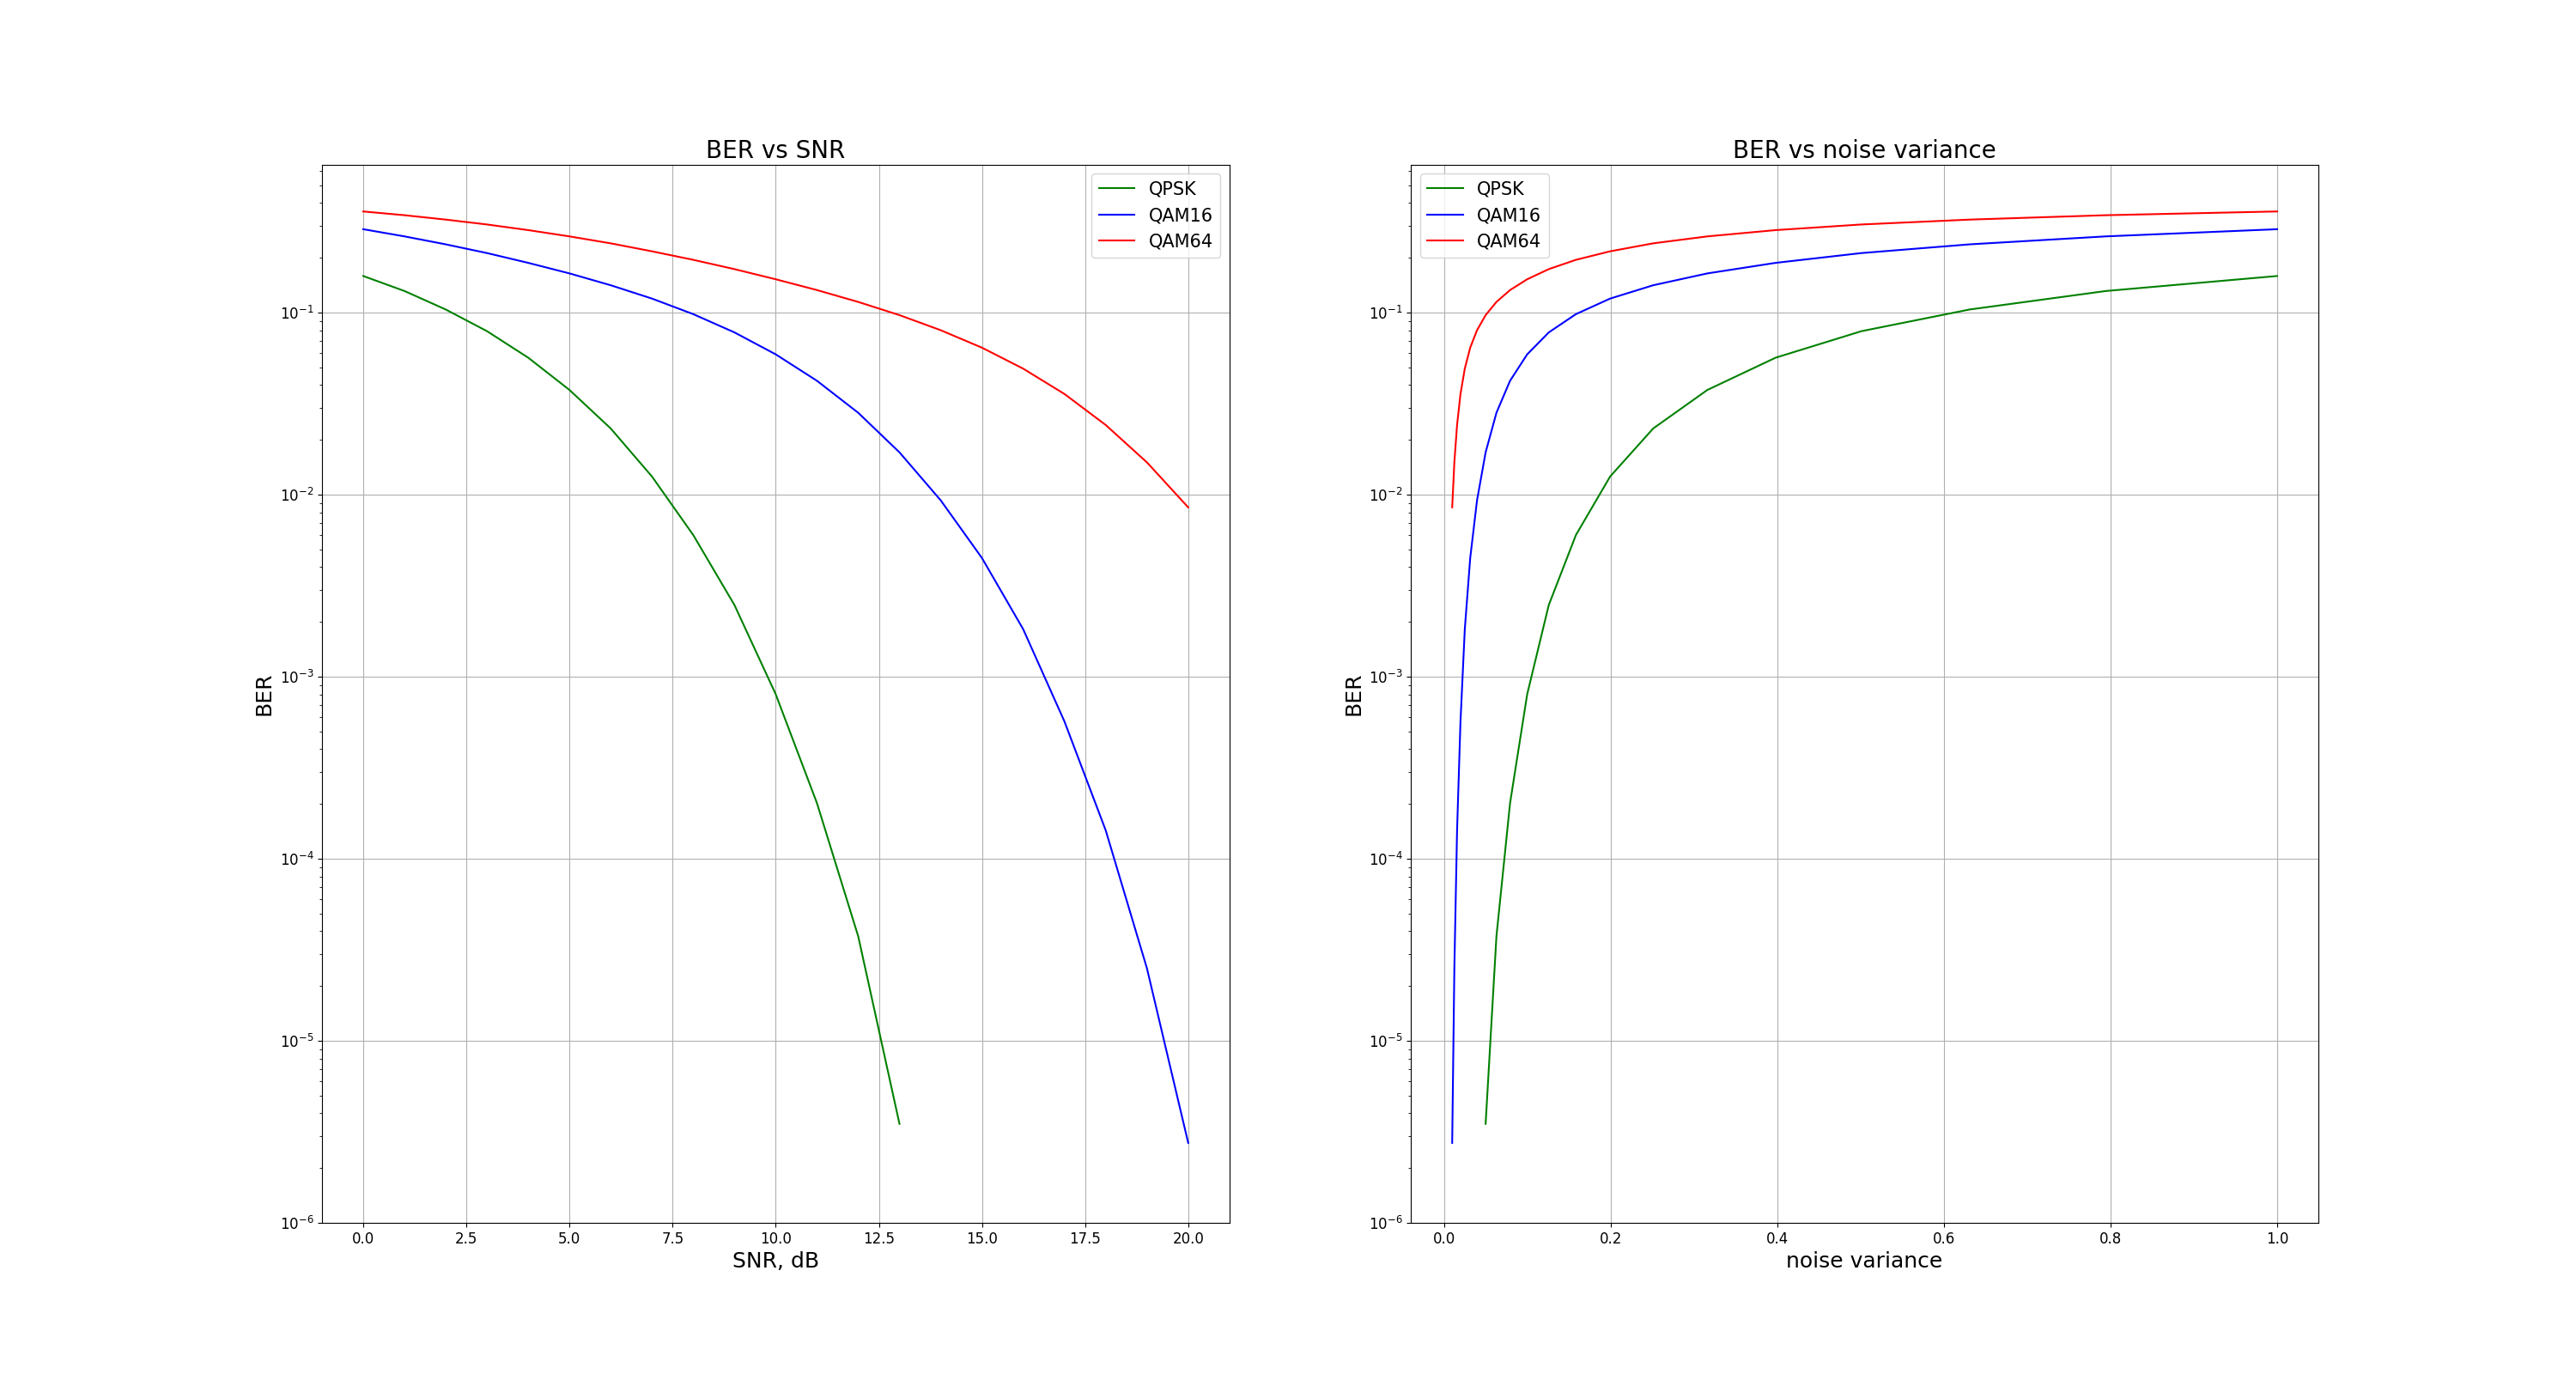
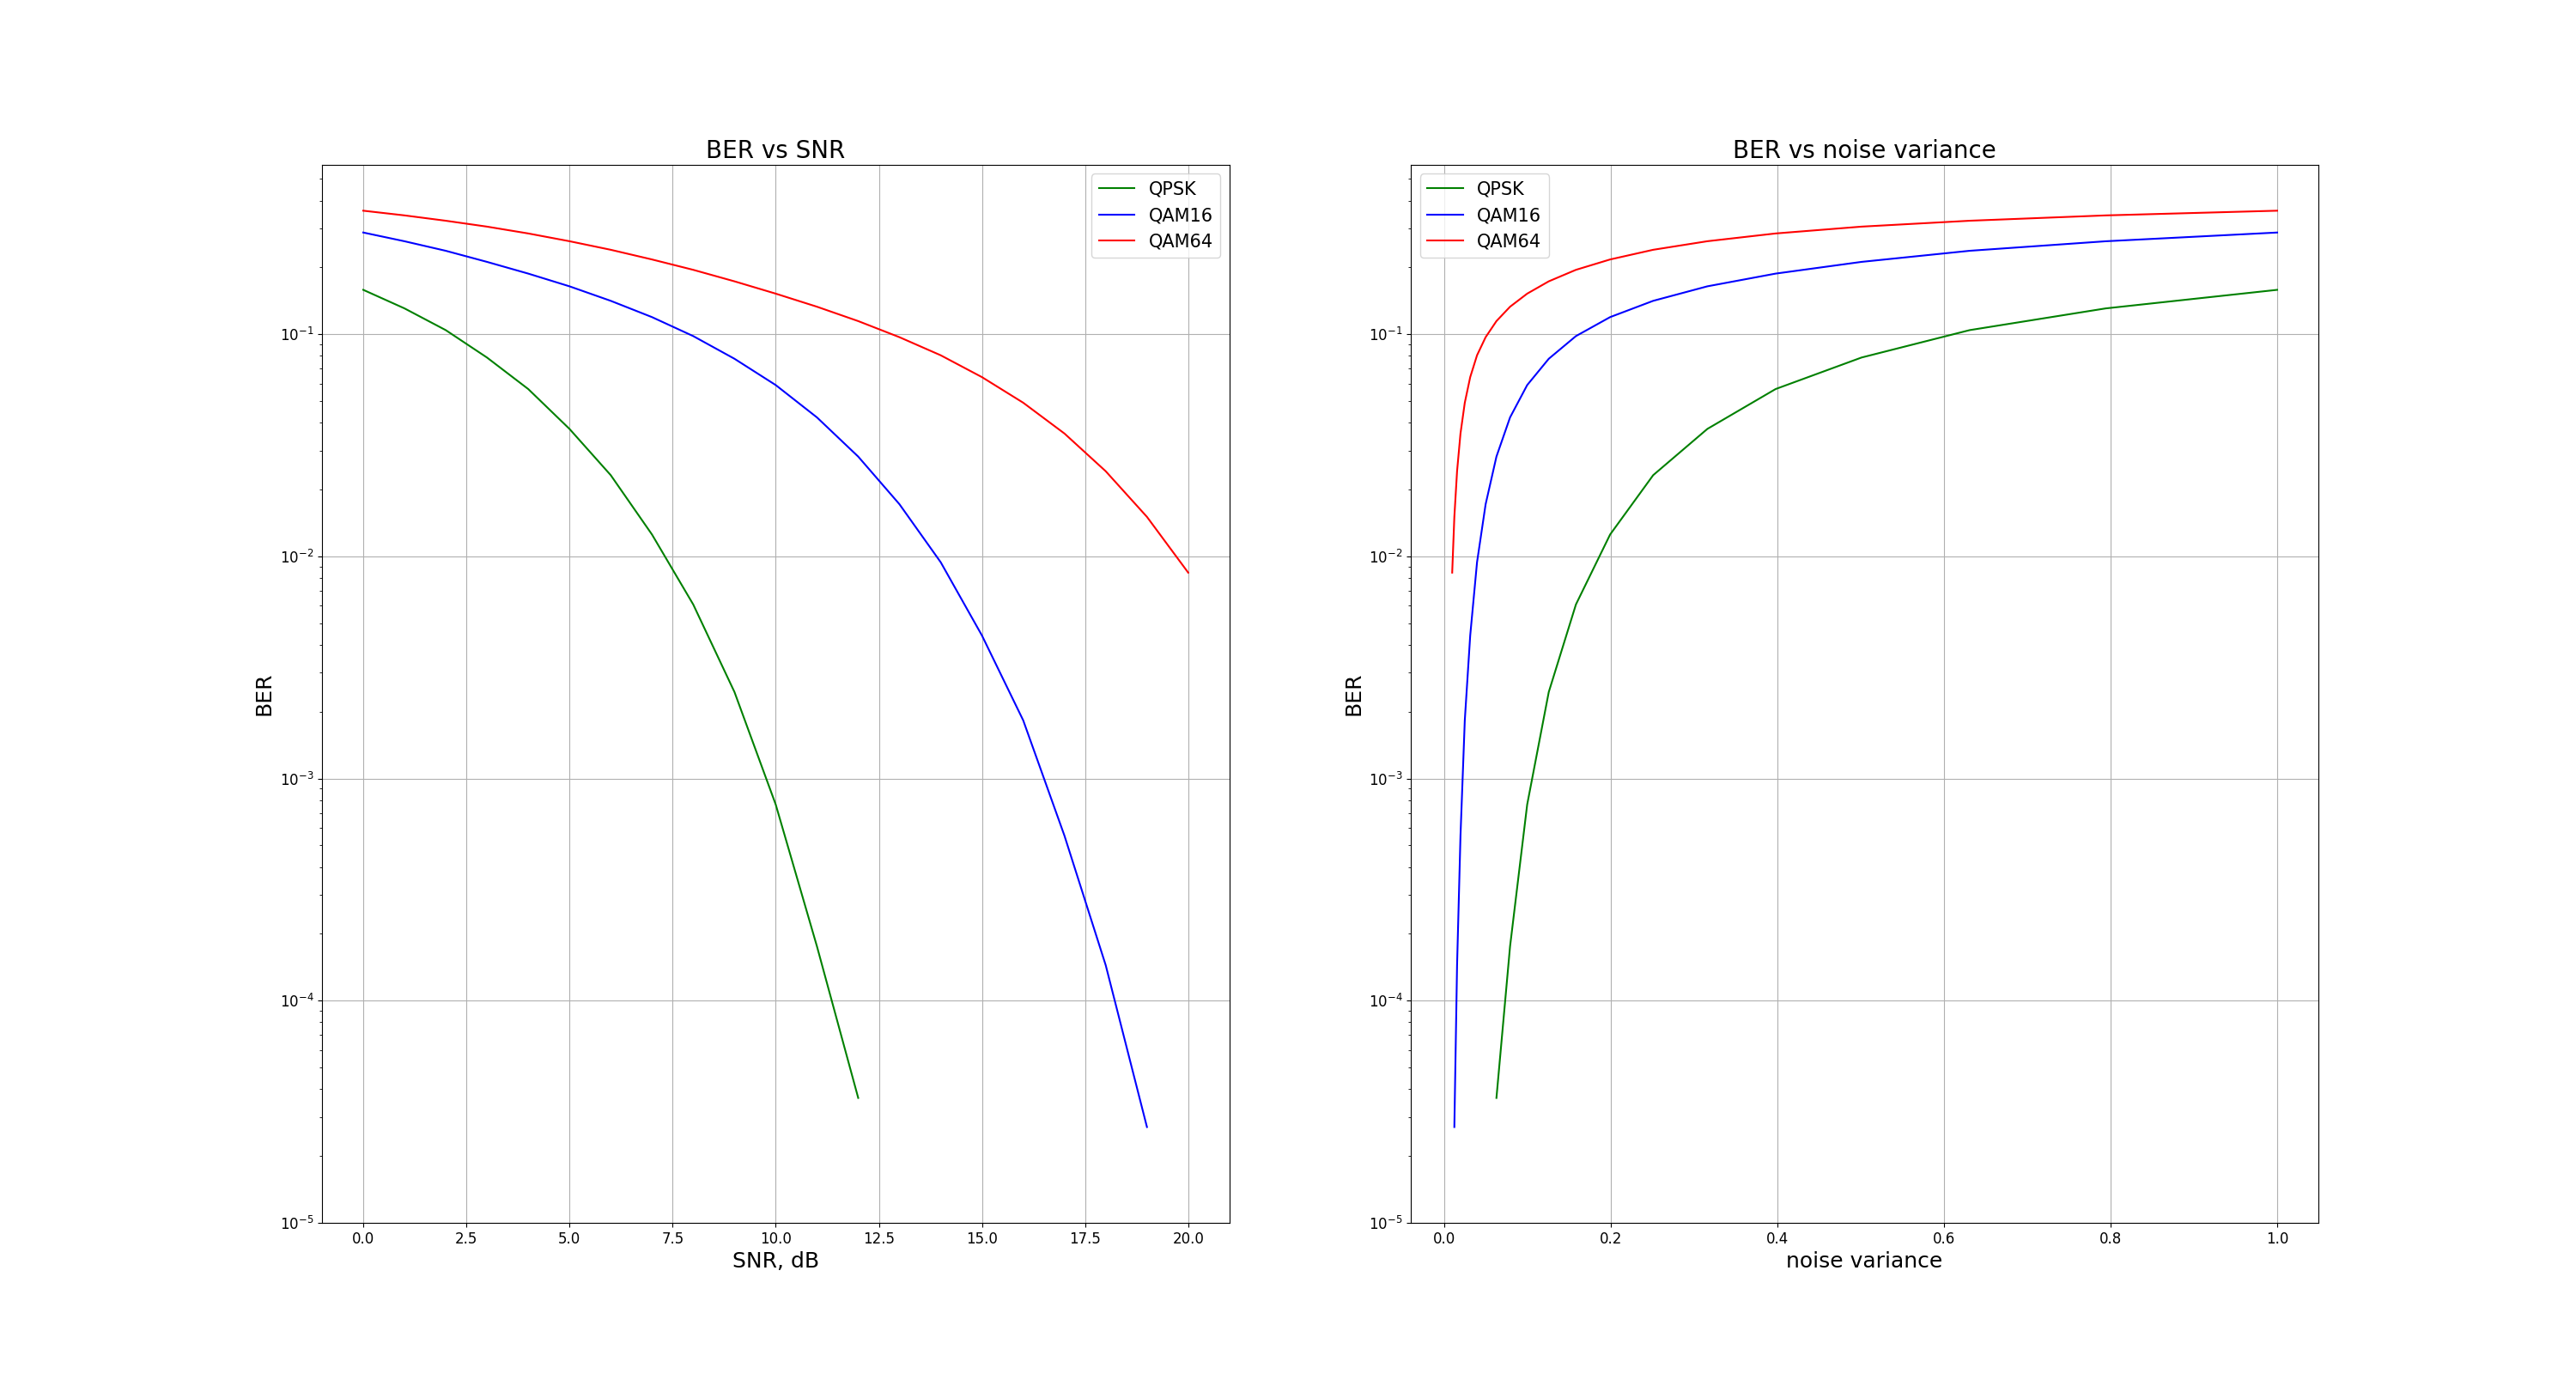
adding constellations with Gray

diff --git a/constellations_with_Gray.py b/constellations_with_Gray.py
@@ -1,0 +1,84 @@
+import numpy as np
+import matplotlib.pyplot as plt
+
+
+modulations_size = [4, 16, 64]
+
+fig = plt.figure(figsize=(20, 30))
+for m, M in enumerate(modulations_size):
+    match M:
+        case 4: alpha = lambda b: -2*b[0] + 1
+        case 16: alpha =  lambda b: -2*b[0] + 2*b[1] - 4*b[0]*b[1] + 1
+        case 64: alpha = lambda b: -6*b[0] + 2*b[1] - 2*b[2] - 4*b[0]*b[1] + 4*b[1]*b[2] + 4*b[0]*b[2] - 8*b[0]*b[1]*b[2] + 3
+        case _: break
+    bits_per_symbol = int(np.log2(M))
+    bits_per_components = bits_per_symbol // 2
+
+    components_number = 1 << bits_per_components
+
+    bits_comb = np.zeros((components_number, bits_per_components))
+    components_comb = np.zeros(components_number)
+
+    for number in range(components_number):
+        for bit in range(bits_per_components):
+            bits_comb[number][bit] = (number >> (bits_per_components - 1 - bit)) & 1
+        components_comb[number] = alpha(bits_comb[number])
+
+    ax = fig.add_subplot(3, 2, bits_per_components + m)
+    if M == 4:
+        ax.set_title("QPSK", fontsize=20)
+    else:
+        ax.set_title(f'QAM{M}', fontsize=20)
+    for I in range(components_number):
+        for Q in range(components_number):
+            bits = ''
+            for b0, b1 in zip(bits_comb[I], bits_comb[Q]):
+                bits += f'{int(b0)}{int(b1)}'
+            ax.text(components_comb[I] + 0.1, components_comb[Q] + 0.1, bits)
+            ax.scatter(components_comb[I], components_comb[Q], color="red")
+
+    ax.set_xlabel("I", fontsize=15)
+    ax.set_ylabel("Q", fontsize=15)
+    ax.set_xlim(-9, 9)
+    ax.set_ylim(-9, 9)
+
+    odd_ticks = np.arange(-9, 11, 2)
+    plt.xticks(odd_ticks)
+    plt.yticks(odd_ticks)
+
+    ax.axhline(y=0, color='black', linewidth=0.5)
+    ax.axvline(x=0, color='black', linewidth=0.5)
+
+    ax.grid(True)
+
+    mean_power = np.mean(2 * components_comb**2)
+
+    ax = fig.add_subplot(3, 2, bits_per_components + 1 + m)
+    if M == 4:
+        ax.set_title("QPSK", fontsize=20)
+    else:
+        ax.set_title(f'QAM{M}', fontsize=20)
+    for I in range(components_number):
+        for Q in range(components_number):
+            bits = ''
+            for b0, b1 in zip(bits_comb[I], bits_comb[Q]):
+                bits += f'{int(b0)}{int(b1)}'
+            ax.text(components_comb[I] / np.sqrt(mean_power) - 0.1, components_comb[Q] / np.sqrt(mean_power) + 0.1, bits)
+            ax.scatter(components_comb[I] / np.sqrt(mean_power), components_comb[Q] / np.sqrt(mean_power), color="red")
+
+    ax.set_xlabel("I", fontsize=15)
+    ax.set_ylabel("Q", fontsize=15)
+    ax.set_xlim(-1.5, 1.5)
+    ax.set_ylim(-1.5, 1.5)
+
+    odd_ticks = np.arange(-1, 2, 2)
+    plt.xticks(odd_ticks)
+    plt.yticks(odd_ticks)
+
+    ax.axhline(y=0, color='black', linewidth=0.5)
+    ax.axvline(x=0, color='black', linewidth=0.5)
+
+    ax.grid(True)
+
+fig.savefig("constellations.png")
+

diff --git a/plot_ber.py b/plot_ber.py
@@ -20,7 +20,7 @@ def plot_ber(modulations):
             for row in reader:
                 snr = float(row["snr"])
                 ber = float(row["ber"])
-                if ber >= 1e-6:
+                if ber >= 1e-5:
                     df["snr"].append(snr)
                     df["ber"].append(ber)
                 else:
@@ -37,8 +37,8 @@ def plot_ber(modulations):
     ax_snr.tick_params(axis='both', labelsize=12)
     ax_var.tick_params(axis='both', labelsize=12)
 
-    ax_snr.set_ylim(bottom=1e-6)
-    ax_var.set_ylim(bottom=1e-6)
+    ax_snr.set_ylim(bottom=1e-5)
+    ax_var.set_ylim(bottom=1e-5)
 
     ax_snr.set_title("BER vs SNR", fontsize=20)
     ax_snr.set_xlabel("SNR, dB", fontsize=18)